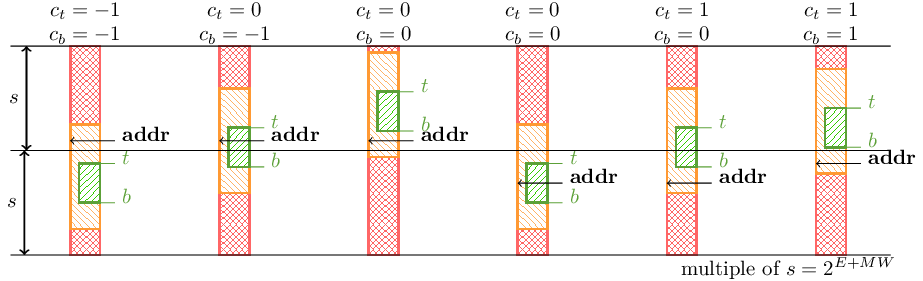
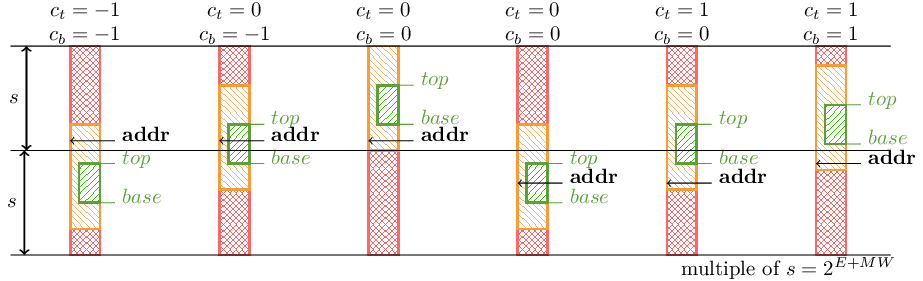
Improve correction factors text and update diagrams (#1177)
Merge the two correction factors tables into one to make it more obvious
why only 6 cases are valid.

Simplify the representable regions figure which allows us to
drop the annotations that require the awkward forward reference.
Also spell out base and top in those diagrams and the text.
Both are short enough that we can use the full word and this
makes a few of the sentences slightly shorter and cleaner.

Finally, reorder the bounds decoding and correction factors
to make it easier to understand and fix awkward forward references.

Fixes: https://github.com/riscv/riscv-cheri/issues/1185
Fixes: https://github.com/riscv/riscv-cheri/issues/1184

diff --git a/src/cheri/img/correction-figs/capformat.tex b/src/cheri/img/correction-figs/capformat.tex
@@ -13,6 +13,12 @@
 \colorlet{damber}{orange!80}
 \colorlet{dgreen}{olive!40!green}
 
+% Whether to draw the space_L / space_U / s decoding annotations (the black
+% partition lines, s arrows, exponent text and space braces). Set to false for
+% a simplified figure showing only the representable and dereferenceable regions.
+\newif\ifcapannotations
+\capannotationstrue
+
 % Draw cap. Args:
 % #1: x offset in page
 % #2: label or nolabel
@@ -46,8 +52,8 @@
   % dereferencable region (space D) labels
   \coordinate (sdseplx) at (\sdseplx,0);
   \coordinate (sdseprx) at (\sdseprx,0);
-  \draw[dgreen] (sdseplx |- derbl) -- (sdseprx |- derbl) node [pos=1,anchor=base west] {$b$};
-  \draw[dgreen] (sdseplx |- dertr) -- (sdseprx |- dertr) node [pos=1,anchor=base west] {$t$};
+  \draw[dgreen] (sdseplx |- derbl) -- (sdseprx |- derbl) node [pos=1,anchor=base west] {$base$};
+  \draw[dgreen] (sdseplx |- dertr) -- (sdseprx |- dertr) node [pos=1,anchor=base west] {$top$};
   \coordinate (sdbracex) at (\sdbracex,0);
   \ifthenelse{\equal{#2}{label}}{
     \draw[dgreen,decoration={brace,mirror},decorate] (sdbracex |- derbl) -- (sdbracex |- dertr) node [midway,anchor=west,align=left,xshift=6pt] {dereferenceable\\region};
@@ -61,9 +67,14 @@
   \coordinate (srbracex) at (\srbracex,0);
     \draw[<-] (repbl |- addry) -- (srseprx |- addry) node [pos=1,anchor=base west] {\textbf{addr}};
   \ifthenelse{\equal{#2}{label}}{
-    \draw[damber] (srseplx |- repbl) -- (srseprx |- repbl) node [pos=1,anchor=base west] {$r_b$};
-    \draw[damber] (srseplx |- reptr) -- (srseprx |- reptr) node [pos=1,anchor=base west] {$r_t$};
-    \draw[<->,thick,damber] (srarrx |- repbl) -- (srarrx |- reptr) node [midway,left]{$s$};
+    \ifcapannotations
+      \draw[<->,thick,damber] (srarrx |- repbl) -- (srarrx |- reptr) node [midway,left]{$s$};
+      \draw[damber] (srseplx |- repbl) -- (srseprx |- repbl) node [pos=1,anchor=base west] {$r_{base}$};
+      \draw[damber] (srseplx |- reptr) -- (srseprx |- reptr) node [pos=1,anchor=base west] {$r_{top}$};
+    \else
+      \draw[damber] (repbl) -- (srseprx |- repbl) node [pos=1,anchor=base west] {$r_{base}$};
+      \draw[damber] (repbl |- reptr) -- (srseprx |- reptr) node [pos=1,anchor=base west] {$r_{top}$};
+    \fi
     \draw[damber,decoration={brace,mirror,aspect=.85},decorate] (srbracex |- repbl) -- (srbracex |- reptr) node [pos=.85,anchor=west,align=left,xshift=5pt] {representable\\space, $space_\text{R}$};
   }{}
 
@@ -72,12 +83,21 @@
   \ifthenelse{\equal{#2}{label}}{
     %%% NOTE THESE ASSUME #3 == 6: the only current label case
     \ifthenelse{\equal{#3}{6}}{}{\errmessage{Assumption on cap labels broken}}
-    \node[anchor=base east,gray] (exbase) at (extextx |- redbl) {\footnotesize\texttt{0x10000}};
-    \draw[dotted,gray] (exbase.base east) -- ({(\sluseplx,0)} |- redbl) ;
-    \node[anchor=base east,gray] (exsmid) at (extextx |- redc) {\footnotesize\texttt{0x20000}};
-    \draw[dotted,gray] (exsmid.base east) -- ({(\sluseplx,0)} |- redc);
-    \node[anchor=north,gray,inner sep=0pt] (exshi) at (redtr -| exsmid) {\footnotesize\texttt{0x30000}};
-    \draw[dotted,gray] (exshi.north east -| exsmid.east) -- ({(\sluseplx,0)} |- redtr);
+    \ifcapannotations
+      % boundaries of space_L / space_U, aligned with the partition lines
+      \node[anchor=base east,gray] (exbase) at (extextx |- redbl) {\footnotesize\texttt{0x10000}};
+      \draw[dotted,gray] (exbase.base east) -- ({(\sluseplx,0)} |- redbl) ;
+      \node[anchor=base east,gray] (exsmid) at (extextx |- redc) {\footnotesize\texttt{0x20000}};
+      \draw[dotted,gray] (exsmid.base east) -- ({(\sluseplx,0)} |- redc);
+      \node[anchor=north,gray,inner sep=0pt] (exshi) at (redtr -| exsmid) {\footnotesize\texttt{0x30000}};
+      \draw[dotted,gray] (exshi.north east -| exsmid.east) -- ({(\sluseplx,0)} |- redtr);
+    \else
+      % only the red backdrop when the space_L/U split is hidden
+      \node[anchor=base east,gray] (exbase) at (extextx |- redbl) {\footnotesize\texttt{0x10000}};
+      \draw[dotted,gray] (exbase.base east) -- (redbl);
+      \node[anchor=base east,gray] (exshi) at (extextx |- redtr) {\footnotesize\texttt{0x30000}};
+      \draw[dotted,gray] (exshi.base east) -- (redbl |- redtr);
+    \fi
     \node[anchor=base east,gray] (exrb) at (extextx |- repbl) {\footnotesize\texttt{0x1A000}};
     \draw[dotted,gray] (exrb.base east) -- ({(\srseplx,0)} |- repbl);
     \node[anchor=base east,gray] (exrb) at (extextx |- derbl) {\footnotesize\texttt{0x1E000}};
@@ -95,6 +115,7 @@
 % #1 Width of figure to annotate
 % #2 label or nolabel
 \newcommand{\drawframe}[2]{
+  \ifcapannotations % whole frame is decoding annotations; skip for the simple figure
   \def\sluseplx{-2};    % Space {L,U} sep left X
   \def\sluarrx{-1.5};   % Space {L,U} arrow X
   \def\sluseprx{#1};   % Space {L,U} sep right X
@@ -119,4 +140,5 @@
     \draw[decoration={brace},decorate] (spacebraceb) -- (spacebracem) node [midway,left] {$space_\text{L}$};
     \draw[decoration={brace},decorate] (spacebracem) -- (spacebracet) node [midway,left] {$space_\text{U}$};
   }{}
+  \fi
 }

diff --git a/src/cheri/img/correction-figs/capformat-correction-cases.tex b/src/cheri/img/correction-figs/capformat-correction-cases.tex
@@ -4,19 +4,19 @@
     \drawcap{0}{nolabel}{0}{17.5}
     \coordinate (atext) at ({(0.5,7)} |- {(0.5, 7)});
     \node[anchor=south, inner sep=1pt,black,align=center] at (atext) {$c_t = -1$\\$c_b = -1$};
-    \drawcap{5}{nolabel}{5.5}{17.5}
+    \drawcap{5}{nolabel}{6.0}{17.5}
     \coordinate (btext) at ({(5.5,7)} |- {(0.5, 7)});
     \node[anchor=south, inner sep=1pt,black,align=center] at (btext) {$c_t = 0$\\$c_b = -1$};
-    \drawcap{10}{nolabel}{11}{17.5}
+    \drawcap{10}{nolabel}{12}{17.5}
     \coordinate (ctext) at ({(10.5,7)} |- {(0.5, 7)});
     \node[anchor=south, inner sep=1pt,black,align=center] at (ctext) {$c_t = 0$\\$c_b = 0$};
     \drawcap{15}{nolabel}{0}{11}
     \coordinate (dtext) at ({(15.5,7)} |- {(0.5, 7)});
     \node[anchor=south, inner sep=1pt,black,align=center] at (dtext) {$c_t = 0$\\$c_b = 0$};
-    \drawcap{20}{nolabel}{5.5}{11}
+    \drawcap{20}{nolabel}{6.0}{11}
     \coordinate (etext) at ({(20.5,7)} |- {(0.5, 7)});
     \node[anchor=south, inner sep=1pt,black,align=center] at (etext) {$c_t = 1$\\$c_b = 0$};
-    \drawcap{25}{nolabel}{8.5}{14}
+    \drawcap{25}{nolabel}{9.0}{14}
     \coordinate (ftext) at ({(25.5,7)} |- {(0.5, 7)});
     \node[anchor=south, inner sep=1pt,black,align=center] at (ftext) {$c_t = 1$\\$c_b = 1$};
 

diff --git a/src/cheri/img/correction-figs/cap-bounds-map.tex b/src/cheri/img/correction-figs/cap-bounds-map.tex
@@ -1,0 +1,10 @@
+% Simplified version of capformat-correction-illustration.tex for the intro
+% chapter: only the representable space and dereferenceable region, without the
+% space_L / space_U / s decoding annotations.
+\input{capformat.tex}
+\capannotationsfalse
+\begin{document}
+  \begin{tikzpicture}[x=\linewidth/15,y=\linewidth/15]
+    \drawcap{0}{label}{6}{18}
+  \end{tikzpicture}
+\end{document}
